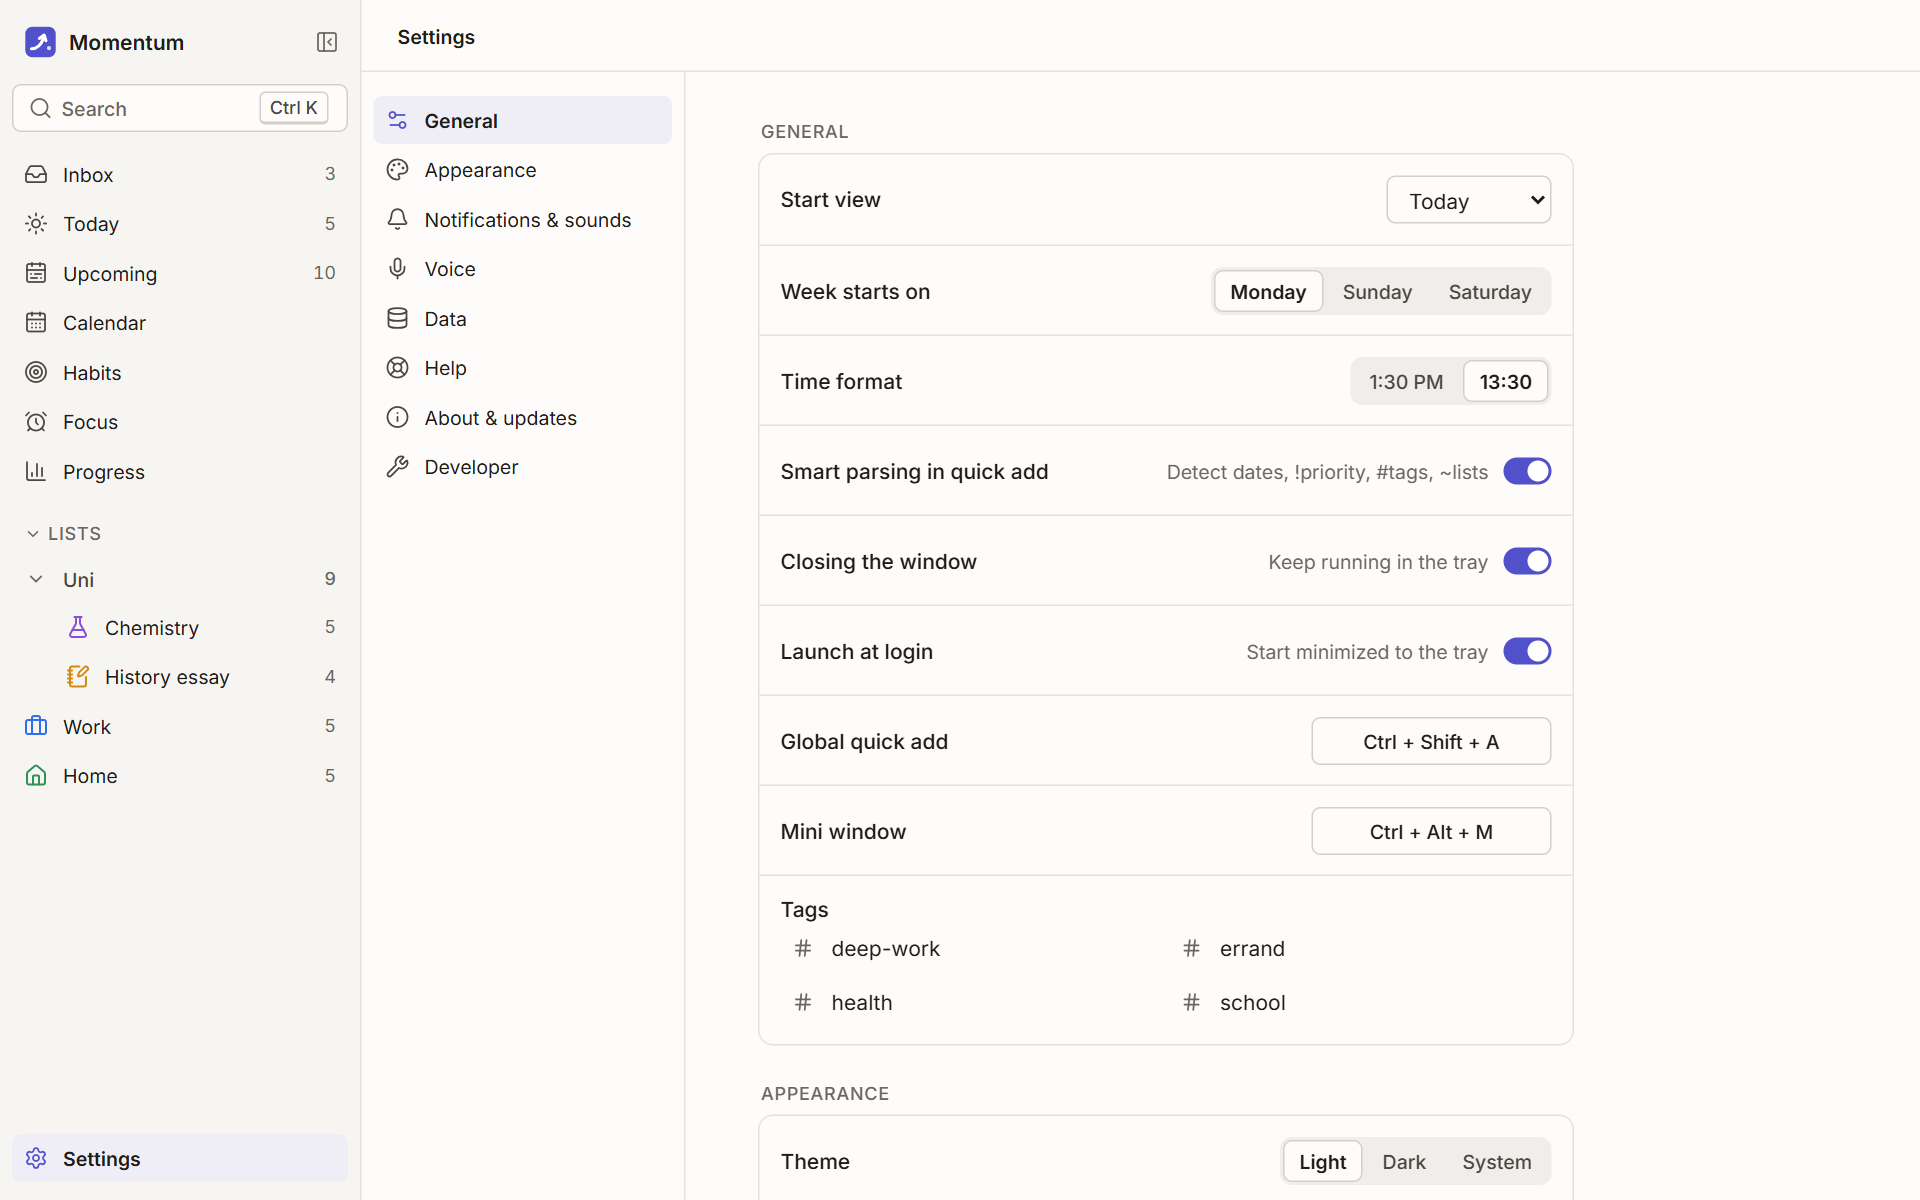
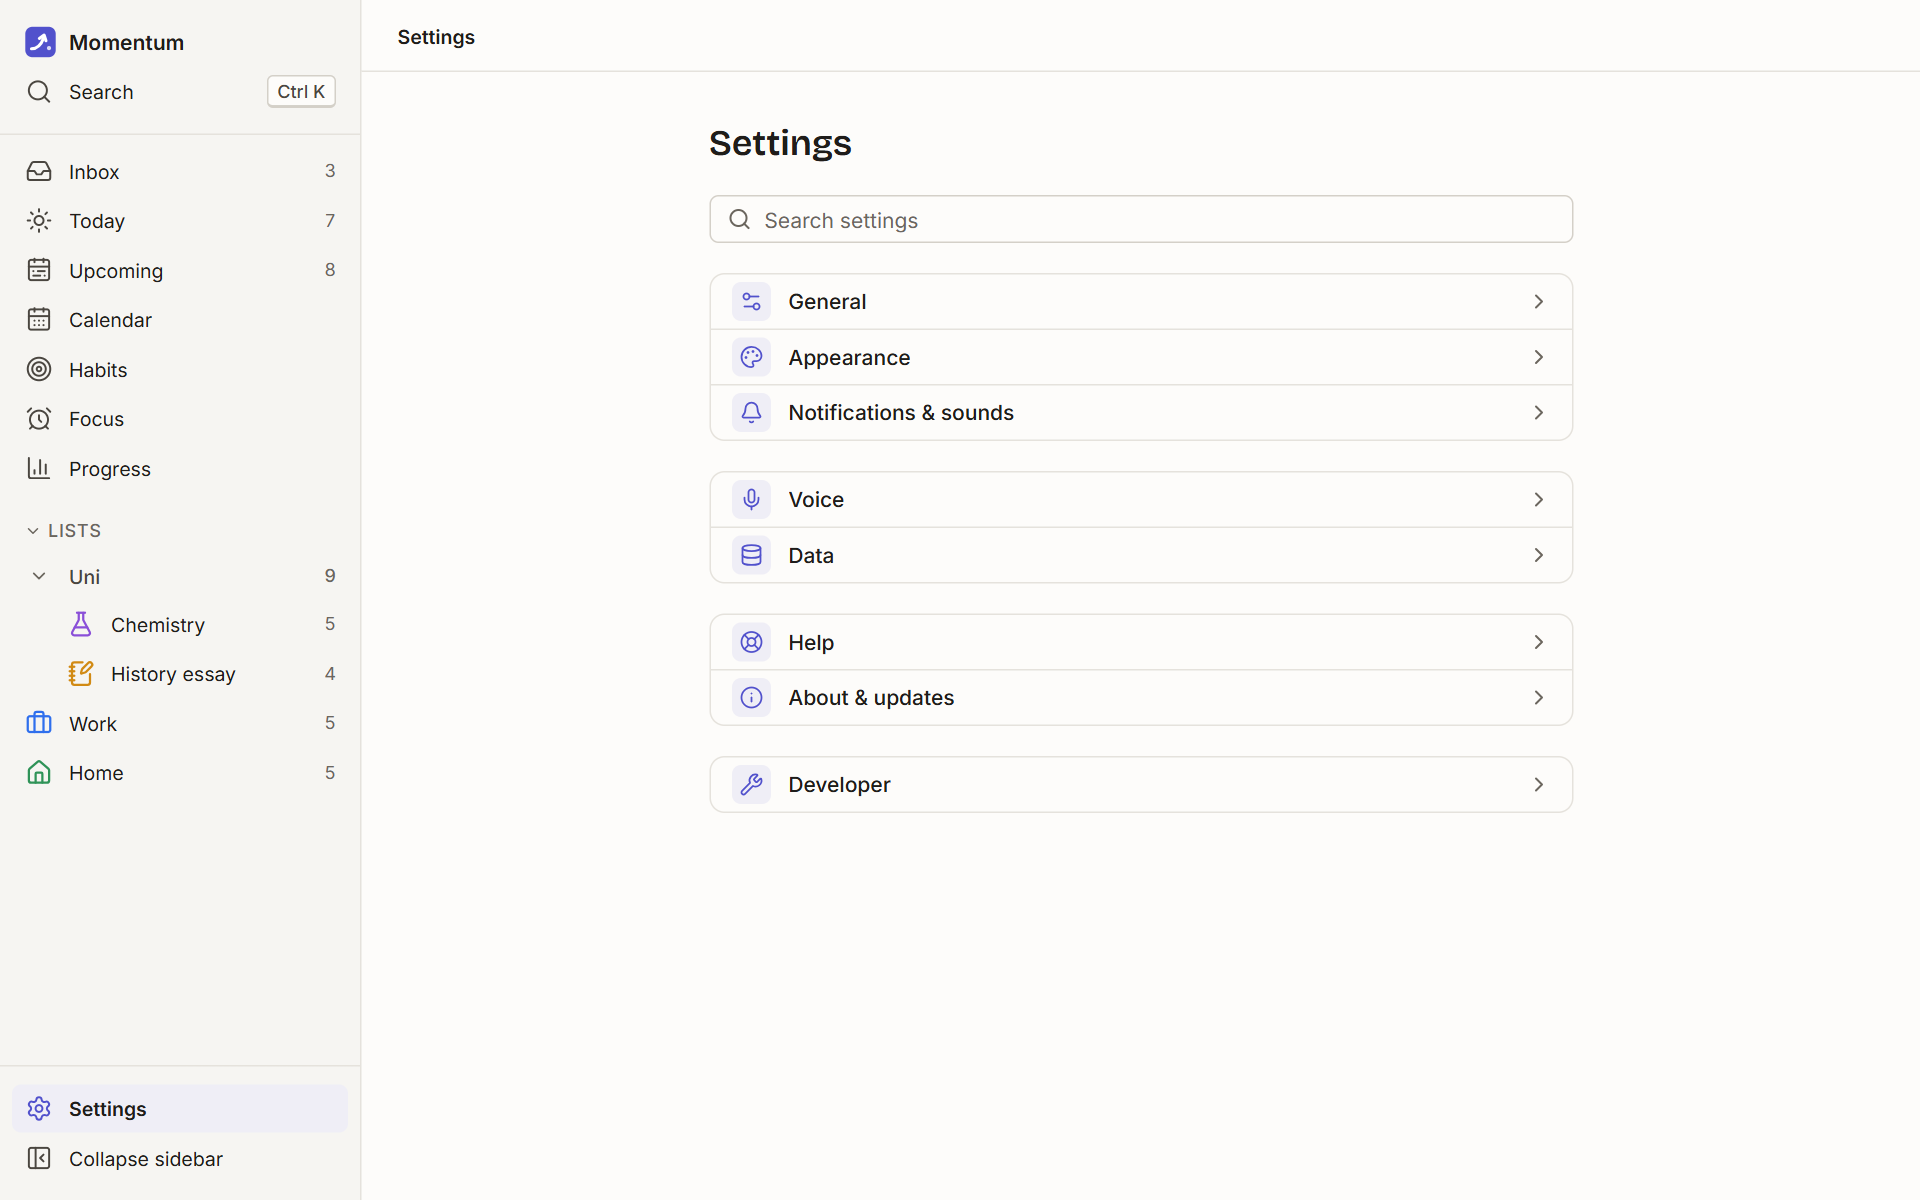
Integration fixes: drawer below the toolbar, rail under 960px, narrow calendar header; D202-D205
- The task drawer sits inside main below the toolbar, so the window controls stay reachable.
- Below 960px the sidebar shows its icon rail, so page toolbars keep their room.
- Calendar: the today circle no longer squashes, weekday labels hide in narrow columns,
  the range title hides below 800px.
- PLAN D202-D205, CLAUDE.md scale and blur notes, regenerated screenshots.

diff --git a/src/features/shell/Sidebar.tsx b/src/features/shell/Sidebar.tsx
@@ -20,7 +20,7 @@ import {
   ArchiveRestore,
   Trash2,
 } from "lucide-react";
-import { type ReactNode, useState } from "react";
+import { type ReactNode, useState, useSyncExternalStore } from "react";
 import { Logo } from "../../components/Logo";
 import { Collapse } from "../../components/ui/Collapse";
 import { ListGlyph } from "../../components/ui/AppIcon";
@@ -174,8 +174,16 @@ function InlineName({ initial, onDone }: { initial: string; onDone: (v: string |
   );
 }
 
+const narrowQuery = window.matchMedia("(max-width: 959px)");
+
 export function Sidebar() {
-  const { sidebarCollapsed: collapsed, sidebarSide: side } = useSettings((s) => s.settings);
+  const { sidebarCollapsed, sidebarSide: side } = useSettings((s) => s.settings);
+  // Narrow windows get the icon rail, so the page and its toolbar keep their room (D203).
+  const narrow = useSyncExternalStore(
+    (cb) => (narrowQuery.addEventListener("change", cb), () => narrowQuery.removeEventListener("change", cb)),
+    () => narrowQuery.matches,
+  );
+  const collapsed = sidebarCollapsed || narrow;
   const savedFilters = useSettings((s) => s.settings.savedFilters);
   const update = useSettings((s) => s.update);
   const lists = useData((s) => s.lists);
@@ -374,7 +382,7 @@ export function Sidebar() {
 
       <ul data-tour="settings" className="space-y-px">
         <NavItem id={SETTINGS_NAV.id} label={SETTINGS_NAV.label} icon={icon(SETTINGS_NAV.icon)} collapsed={collapsed} side={side} />
-        <NavItem id="collapse" label={collapsed ? "Expand sidebar" : "Collapse sidebar"} icon={icon(Toggle)} collapsed={collapsed} side={side} onClick={() => update({ sidebarCollapsed: !collapsed })} />
+        {!narrow && <NavItem id="collapse" label={collapsed ? "Expand sidebar" : "Collapse sidebar"} icon={icon(Toggle)} collapsed={collapsed} side={side} onClick={() => update({ sidebarCollapsed: !collapsed })} />}
       </ul>
       {editList && <ListDialog list={editList} onClose={() => setEditList(null)} />}
     </aside>

diff --git a/src/features/calendar/TimeGrid.tsx b/src/features/calendar/TimeGrid.tsx
@@ -54,9 +54,9 @@ export function TimeGrid({ days, items, onViewDay }: { days: string[]; items: Ca
         {days.map((d) => {
           const date = fromLocalDate(d);
           return (
-            <button key={d} type="button" onClick={() => onViewDay(d)} className="flex h-16 min-w-0 items-center justify-center gap-2 border-l border-border px-3 hover:bg-surface-2">
-              <span className={`t-label ${d === today ? "text-accent-text" : "text-muted"}`}>{format(date, "EEE")}</span>
-              <span className={`grid size-7 place-items-center rounded-full text-[length:var(--fs-lg)] font-semibold tabular-nums ${d === today ? "bg-accent text-accent-fg" : ""}`}>{format(date, "d")}</span>
+            <button key={d} type="button" onClick={() => onViewDay(d)} className="@container flex h-16 min-w-0 items-center justify-center gap-1.5 border-l border-border px-1 hover:bg-surface-2">
+              <span className={`t-label hidden @min-[4.25rem]:inline ${d === today ? "text-accent-text" : "text-muted"}`}>{format(date, "EEE")}</span>
+              <span className={`grid size-7 shrink-0 place-items-center rounded-full text-[length:var(--fs-lg)] font-semibold tabular-nums ${d === today ? "bg-accent text-accent-fg" : ""}`}>{format(date, "d")}</span>
             </button>
           );
         })}

diff --git a/src/features/calendar/CalendarView.tsx b/src/features/calendar/CalendarView.tsx
@@ -79,7 +79,7 @@ export function CalendarView() {
           <button type="button" aria-label="Next" title="Next (→)" onClick={() => setCalAnchor(step(anchor, 1))} className="btn btn-ghost icon-btn">
             <ChevronRight size={18} strokeWidth={1.75} />
           </button>
-          <h2 className="ml-1 mr-3 whitespace-nowrap text-[length:var(--fs-lg)] font-semibold leading-[var(--lh-lg)] max-[1100px]:mr-1 max-[1100px]:text-[length:var(--fs-base)]">{rangeTitle(span ? "5day" : view, days, anchor)}</h2>
+          <h2 className="ml-1 mr-3 whitespace-nowrap text-[length:var(--fs-lg)] font-semibold leading-[var(--lh-lg)] max-[1100px]:mr-1 max-[1100px]:text-[length:var(--fs-base)] max-[799px]:hidden">{rangeTitle(span ? "5day" : view, days, anchor)}</h2>
           {span && (
             <button type="button" onClick={() => setCalSpan(null)} title="Back to the selected view" aria-pressed="true" className="anim-pop btn btn-ghost btn-sm max-[1100px]:hidden">
               {span} days <X size={14} strokeWidth={1.75} />

diff --git a/src/features/tasks/TaskDrawer.tsx b/src/features/tasks/TaskDrawer.tsx
@@ -35,7 +35,7 @@ export function TaskDrawer() {
     <aside
       key={task.id}
       aria-label="Task details"
-      className={`layer layer-raised ${side === "right" ? "anim-slide-right right-0 border-y-0 border-r-0" : "anim-slide-left left-0 border-y-0 border-l-0"} absolute inset-y-0 z-40 flex w-[clamp(340px,36vw,440px)] max-w-full flex-col max-[719px]:w-full`}
+      className={`layer layer-raised ${side === "right" ? "anim-slide-right right-0 border-y-0 border-r-0" : "anim-slide-left left-0 border-y-0 border-l-0"} absolute bottom-0 top-12 z-40 flex w-[clamp(340px,36vw,440px)] max-w-full flex-col max-[719px]:w-full`}
       onKeyDown={(e) => {
         if (e.key === "Escape" && !(e.target instanceof HTMLTextAreaElement)) closeDrawer();
       }}

diff --git a/src/App.tsx b/src/App.tsx
@@ -106,9 +106,10 @@ export default function App() {
           <div key={view} className="anim-view flex min-h-0 flex-1 flex-col overflow-auto">
             <View view={view} spec={spec} />
           </div>
+          {/* Below the toolbar, so the window controls stay reachable while a task is open. */}
+          <TaskDrawer />
         </main>
         <div className="contents max-[719px]:hidden">{layout === "bar" && !topBar && <NavBar position="bottom" />}</div>
-        <TaskDrawer />
       </div>
       <div className="min-[720px]:hidden">
         <PhoneBar />

diff --git a/PLAN.md b/PLAN.md
@@ -475,3 +475,7 @@ Planning frontier closed 2026-11-07.
   - **Linux.** `WEBKIT_DISABLE_DMABUF_RENDERER=1` is set at startup (unless already set) for the blank-window bug on newer GPU stacks. The v0.9.1 `.deb` declared only `libappindicator3-1, libwebkit2gtk-4.1-0, libgtk-3-0`; cpal needs ALSA, so `libasound2` (deb) and `alsa-lib` (rpm) are added. The bundler hard-codes `libappindicator3-1`, which Ubuntu 24.04 no longer ships, so the `.deb` may not install there; the AppImage is the fallback.
   - **Updater.** Ruled out: `latest.json` lists `darwin-aarch64`, `darwin-x86_64`, `linux-x86_64` and `windows-x86_64` (plus the `-app`, `-deb`, `-rpm`, `-appimage`, `-msi`, `-nsis` variants), each with a signature, and the URLs point at assets that exist.
   - **CI.** `.github/workflows/ci.yml` gains a `rust` job on macos-latest and ubuntu-22.04: `npm ci`, `npm test`, `npm run build`, `cargo test`; on Linux it also builds the release binary and runs it under xvfb for 20 s, requiring a visible "Momentum" window and no panic in the log.
+- **D202: Shell, Scale and Settings (v1.1 polish).** Zoom and Text size merge into one **Scale** setting (80–175%), applied as the webview zoom so every px and rem size scales together and the CSS breakpoints still reflow; Ctrl +/−/0 step it. `parseSettings` migrates old values as zoom × text-size factor, snapped to the nearest step. The toolbar slot takes what the page title and the window controls leave and scrolls when wider, so the controls are never pushed off; the title truncates last. The sidebar's top (logo, Search) and bottom (Settings, Collapse) are matching two-row blocks; nav icons are 1.125rem. Settings is a drill-in list of categories with a Back button (Escape, Alt+Left) and a search that jumps to and highlights a setting; `openSettingsPage(id)` deep-links. The Dialog scrim (palette and modals) gets a 6px backdrop blur, the one exception to "no blur" (D172).
+- **D203: Layouts that fit small windows.** The task drawer is a single column (`clamp(340px, 36vw, 440px)`) with List, Due, Priority and Tags as wrapping chips under the title; it sits inside `main` below the toolbar, so the window controls stay reachable while it's open. The list filter is a compact field in the page head; quick add is the only full-width input. Row meta sits at the row's right edge and the subtask chevron in a fixed gutter centred on the checkbox. Below 960px the sidebar shows its icon rail regardless of the setting. The calendar: 64px hours (44 compact), the view switcher becomes a menu at 1100px and below, the range title hides below 800px, weekday labels hide when a column is too narrow, and the Arrange count is its own pill. Habits stack list over detail below 1024px; stat grids use `auto-fit`.
+- **D204: Focus targets a task or chosen subtasks.** The Focus page's native select becomes a picker (search, a subtask flyout on hover or →, multi-select by click, Shift+click or drag, and a keyboard path). The timer stores `subIds`; sessions are still credited to the top-level task. The mini window's Focus tab shows the real length with a −/+ stepper (5-minute steps, 5–180) and 15/25/45/60 presets; `start` carries `minutes`, which the main window saves as `pomodoro.focusMin`.
+- **D205: Progress can't be farmed.** `countsForProgress` (domain/perfect.ts): a task finished less than 2 minutes after it was created doesn't count toward trophies, perfect days or the completed charts, and is ignored as if it didn't exist. Series occurrences and negative ages (imports, seed) count. Big celebrations fire 5 s after the last completion and re-check first, so a quick uncheck cancels them; the tick sound stays immediate.

diff --git a/CLAUDE.md b/CLAUDE.md
@@ -57,12 +57,12 @@ The source is `docs/design/momentum-tokens.css`. The screen mocks are `docs/mock
   - UI font: Inter Variable with `cv05`, `cv08`. Scale: `--fs-xs` 12, `--fs-sm` 13, `--fs-base` 14, `--fs-lg` 16, `--fs-xl` 24, `--fs-display` 44 (rem at a 16px root, one step larger below 720px).
   - Bricolage Grotesque only through `.t-title` (page titles) and `.t-display` (big numbers): 24px and up, at most two per screen. `.t-label` is the 12px uppercase label.
   - JetBrains Mono (`font-mono`, `.t-timer`) only for the focus timer digits. Every other count, date, time or stat uses `tabular-nums` (`.t-count`).
-  - Density: `html[data-density=compact]` sets `--row` to `--row-compact`. The text-size setting sets the root `font-size` (16px by default), so every rem value scales with it.
+  - Density: `html[data-density=compact]` sets `--row` to `--row-compact`. The Scale setting is the webview zoom (PLAN D202), so every size scales and the breakpoints reflow.
 
 ## Conventions
 - **Zustand selectors return stable references.** Select the raw map (`useData((s) => s.lists)`) and derive arrays with `useMemo`. A selector that builds a new array/object on every call loops React ("getSnapshot should be cached"). `npm run lint:selectors` greps for it.
 - Small components, one per file, under `src/features/<area>/`. Shared primitives go in `src/components/ui/`.
 - Every interactive element gets a visible focus ring (`--accent-text`) and a keyboard path.
-- **Visual rules (PLAN D172, D198):** no glass or blur, no gradients, no glows, no emoji in the chrome (only in names the user typed), one shadow (`shadow-float`) for floating layers. Reuse the component classes in `src/styles/components.css` (`.btn`, `.input`, `.seg`, `.check`, `.layer`, `.menu-item`, `.nav-item`, `.card`, `.kbd`, `.token`…) before writing new class strings; a view's controls go in the toolbar through `<ToolbarActions>`, a page title through `<PageHead>`.
+- **Visual rules (PLAN D172, D198):** no glass or blur (except the 6px blur on the Dialog scrim, D202), no gradients, no glows, no emoji in the chrome (only in names the user typed), one shadow (`shadow-float`) for floating layers. Reuse the component classes in `src/styles/components.css` (`.btn`, `.input`, `.seg`, `.check`, `.layer`, `.menu-item`, `.nav-item`, `.card`, `.kbd`, `.token`…) before writing new class strings; a view's controls go in the toolbar through `<ToolbarActions>`, a page title through `<PageHead>`.
 - **Feature registry:** every user-facing feature has an entry in `FEATURES` (`src/domain/features.ts`: title, how-to line, commands/shortcuts/tokens, done-detector). The palette, the `?` sheet, Settings → Help, Getting started and the tour all read it, and a test fails when a command has no help text. Add the entry with the feature.
 - Commit once per phase. Stage files by explicit path.
